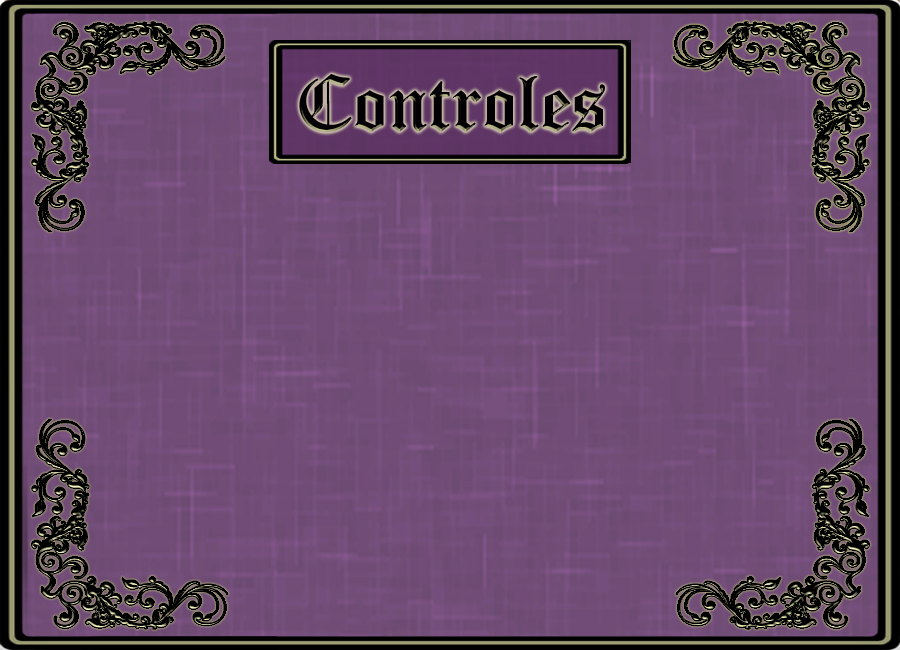
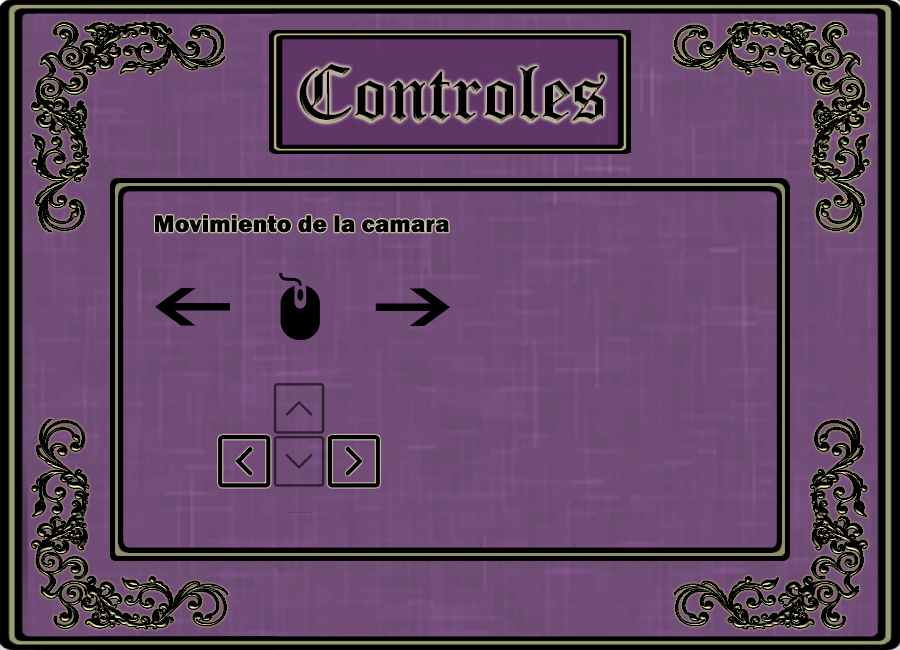
Idea provisional para menu de controles

diff --git a/Dagor_Dagorath/Script/ControlMenu.js b/Dagor_Dagorath/Script/ControlMenu.js
@@ -17,11 +17,11 @@ DagorDagorath.ControlMenu.prototype = {
     marco.width = 1000;
     marco.height = 667;    
 
-  	ventanaControles = this.game.add.sprite(100,58, 'controles');
-    ventanaControles.width = 800;
+  	ventanaControles = this.game.add.sprite(110,58, 'controles');
+    ventanaControles.width = 780;
     ventanaControles.height = 550;
 
-    button = this.game.add.button(210, 137, 'BotonRetroceso', this.actionOnClick, this,1,0);
+    button = this.game.add.button(206, 137, 'BotonRetroceso', this.actionOnClick, this,1,0);
     button.width = 85;
     button.height = 60;
 
